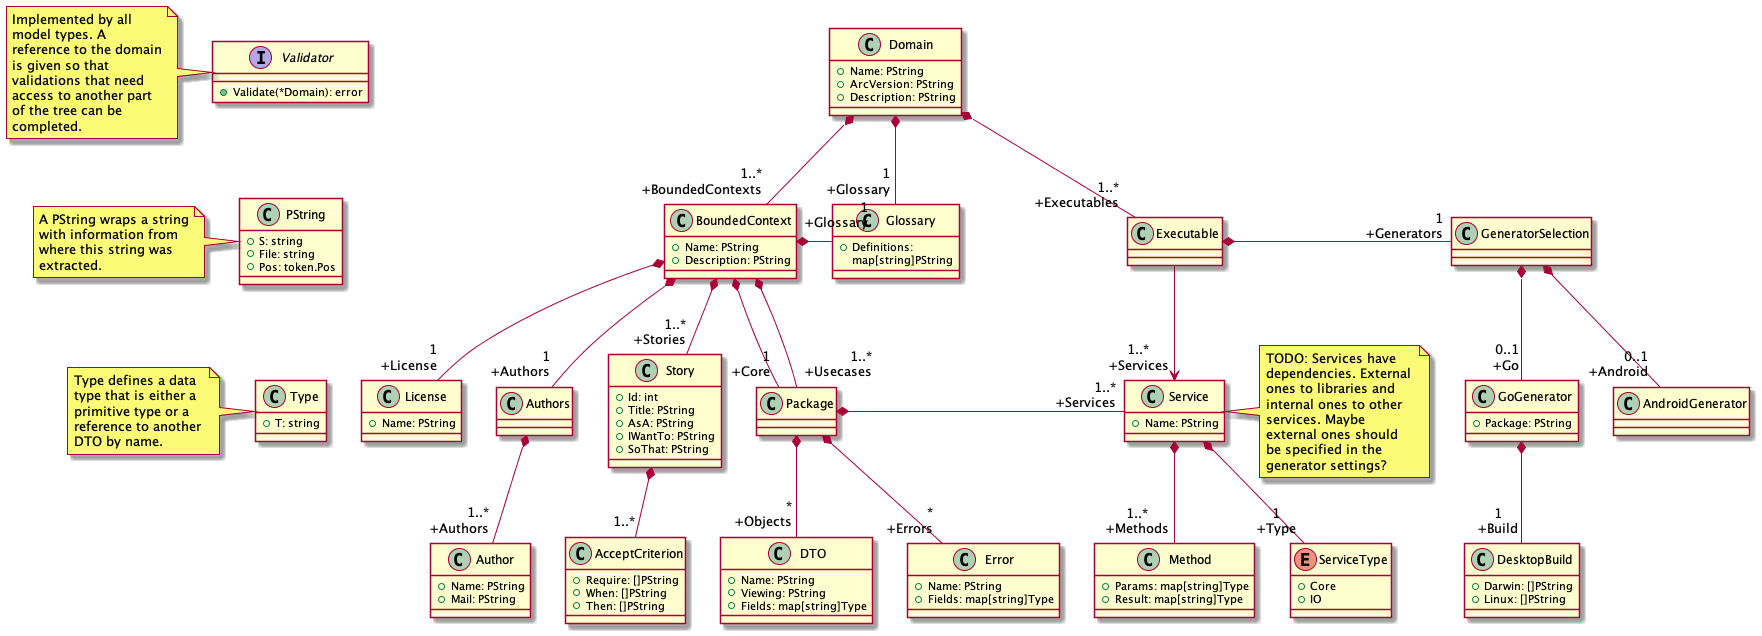
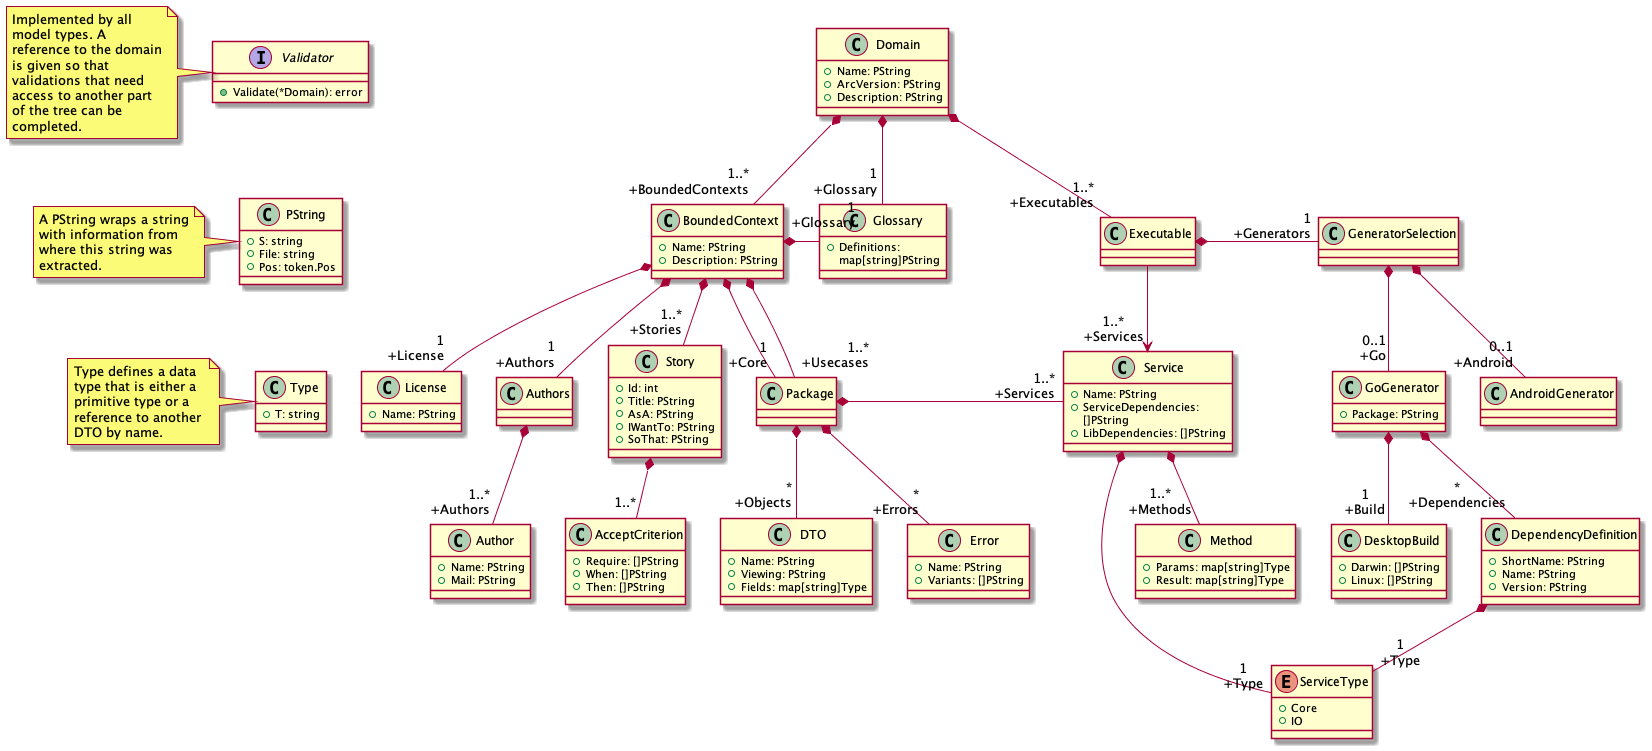
Refine model

diff --git a/docs/README.md b/docs/README.md
@@ -14,4 +14,10 @@ TODO This section is currently just a collection of thoughts, it needs to be rew
 
 This separation will make sure that data concerning the domain must flow through core services. Ideally we would prevent core services from accessing the network or disk, but this might be hard to enforce in code. Still, programmers should respect this model and we can check for service dependencies that violate these rules in the generator.
 
+To enable communication, each service provides a list of *ServiceDependencies*. These are the names of services it needs access to. When generating the code, the dependency injection layer will provide references to each required service, while not violating the above mentioned communication rules. Dependencies on external libraries can be specified in *LibDependencies*. In this array generator independent dependencies should be specified. E.g. "xml" could be used if the service needs access to an XML-Encoder, or "request" if it needs to make HTTP request. The realizations for these dependencies are given in the generators (DependencyDefinition::ShortName).
+
+**GeneratorSelection** allows an executable to choose what kind of project(s) should be generated for it. In the diagram a *GoGenerator* and an *AndroidGenerator* are shown. The AndroidGenerator is only there to show that different generators could be implemented. In the following only the more complete GoGenerator will be explained. The GoGenerator specifies a package in which the project should be generated into, a list of target platforms to build for and a list of dependencies.
+
+**DependencyDefinition** Each definition consists of a *ShortName*, *Type*, *Name* and *Version*. Name and version will be used to generate a usable dependency. ShortName is the name that services use to reference it. E.g. a ShortName `xml` could be used to reference `encoding/xml` version `1.17`. *Type* should be set appropriately, so that dependencies that communicate with the outside world (like network or disk) are marked `io` and dependencies that do not communicate (like an xml encoder) are marked `core`. This distinction is useful to enforce the communication rules for keeping a clean architecture in section *Service*.
+
 **DTO** Data Transfer Objects are used excessively in this project. They are the only things that can be communicated between services. Whenever some data needs to be transferred, a DTO must be used (hence the name). In this project DTOs are views on an abstract type (specified in `Viewing` in the diagram). This type must be defined in the glossary for the bounded context. A DTO itself is then a manifestation of that type with certain attributes that are only needed in a certain service. E.g. a `User` is described in the glossary. One service might be used for creating users and expects a `RegisterUser(name, email, password)` DTO. It will do some validation and then send a `CreateUser(name, email, password, id)` DTO to the database service to persist the user. When someone wants to look at this user, another service can send a `ShowUser(name)`. Notice how each DTO describes the same concept of a user, but from different views, which is why they would all have the attribute `Viewing="User"` set. This is helpful since e.g. the `ShowUser` DTO should probably not send email and password for a user into the world.
